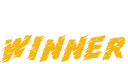
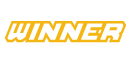
Design Tweak 2.0
Revamped all design aspects

diff --git a/js/pong.js b/js/pong.js
@@ -26,9 +26,10 @@ Pong =
 
     Assets: /**/
     [
-        "img/press1.png",
-        "img/press2.png",
-        "img/winner.png"
+        "img/leftMenu.png",
+        "img/rightMenu.png",
+        "img/p1win.png",
+        "img/p2win.png"
     ],
 
     Levels:
@@ -62,7 +63,7 @@ Pong =
             this.width = runner.width;
             this.height = runner.height;
             this.assets = assets;
-            this.isPlaying   = false; //
+            this.isPlaying = false; //
             this.score = [0, 0]; //
             this.menu = Object.construct(Pong.Menu, this);
             this.court = Object.construct(Pong.Court, this);
@@ -113,6 +114,7 @@ Pong =
     {
         this.score[player] += 1;
         this.sfx.goal();
+        
         if (this.score[player] >= this.cfg.winpoint)
         {
             this.menu.declareWinner(player);
@@ -157,9 +159,11 @@ Pong =
 
     draw: function(canvas) /**/
     {
-        this.court.draw(canvas, this.score[0], this.score[1]);
+        this.court.draw(canvas, this.score[0], this.score[1], this.isPlaying);
+
         this.leftPaddle.draw(canvas);
         this.rightPaddle.draw(canvas);
+        
         this.isPlaying ? this.ball.draw(canvas) : this.menu.draw(canvas);
         if (this.cfg.legend)
             this.drawLegend(canvas);
@@ -216,13 +220,14 @@ Pong =
     {
         initialize: function(pong) 
         {
-            var leftMenu = pong.assets["img/press1.png"];
-            var rightMenu = pong.assets["img/press2.png"];
-            var winText = pong.assets["img/winner.png"];
+            var leftMenu = pong.assets["img/leftMenu.png"];
+            var rightMenu = pong.assets["img/rightMenu.png"];
+            var leftWinner = pong.assets["img/p1win.png"];
+            var rightWinner = pong.assets["img/p2win.png"];
             this.leftMenu = { assets: leftMenu, x: 40, y: pong.cfg.wallWidth + 10};
             this.rightMenu = { assets: rightMenu, x: (pong.width - rightMenu.width - 40), y: pong.cfg.wallWidth + 10 };
-            this.leftWin = { assets: winText, x: (pong.width/4) - winText.width/2, y: pong.height/2 - winText.height/2 };
-            this.rightWin = { assets: winText, x: (3*pong.width/4) - winText.width/2, y: pong.height/2 - winText.height/2 };
+            this.leftWin = { assets: leftWinner, x: (pong.width/4) - leftWinner.width/2, y: pong.height/2 - leftWinner.height/2 };
+            this.rightWin = { assets: rightWinner, x: (3*pong.width/4) - rightWinner.width/2, y: pong.height/2 - rightWinner.height/2 };
         },
 
         declareWinner: function(pNum) { this.winner = pNum; },
@@ -288,7 +293,9 @@ Pong =
             this.courtWalls = [];
             this.courtWalls.push({x: 0, y: 0, width: x, height: th}) // Draw top walls
             this.courtWalls.push({x: 0, y: y-th, width: x, height: th}) // Draw bottom walls
-            this.courtWalls.push({x: (x/2) - (th/2), y: 0, width: th, height: y}); // Draw middle line
+            this.courtWalls.push({x: (x/2) - 3, y: 0, width: 6, height: y}); // Draw middle line
+            this.courtWalls.push({x: 0, y: 0, width: 3, height: y}); // Draw left line
+            this.courtWalls.push({x: x-3, y: 0, width: 3, height: y}); // Draw right line
             
             // Score panel properties
             var scoreX = 3*th;
@@ -335,16 +342,23 @@ Pong =
 				canvas.fillRect(x, y+h-dh, w, dh);
         },
 
-        draw: function(canvas, p1score, p2score)
+        draw: function(canvas, p1score, p2score, playing)
         {
-            canvas.fillStyle = Pong.Colors.courtWalls;
+            if (!playing)
+                canvas.fillStyle = 'red';
+            else
+                canvas.fillStyle = 'lime';
 
-            for (var i = 0; i < this.courtWalls.length; i++)
+            for (var i = 3; i < 5; i++)
+                canvas.fillRect(this.courtWalls[i].x, this.courtWalls[i].y, this.courtWalls[i].width, this.courtWalls[i].height);
+            
+            canvas.fillStyle = Pong.Colors.courtWalls;
+            for (var i = 0; i < 3; i++)
                 canvas.fillRect(this.courtWalls[i].x, this.courtWalls[i].y, this.courtWalls[i].width, this.courtWalls[i].height);
             
             this.sevenSegment(canvas, p1score, this.leftScore.x, this.leftScore.y, this.leftScore.width, this.leftScore.height);
             this.sevenSegment(canvas, p2score, this.rightScore.x, this.rightScore.y, this.rightScore.width, this.rightScore.height);
-        }
+        },
     },
 
     //Game Paddle - To hit the ball in the Pong game
@@ -357,7 +371,7 @@ Pong =
             this.minY   = pong.cfg.wallWidth;
             this.maxY   = pong.height - pong.cfg.wallWidth - this.height;
             this.speed  = (this.maxY - this.minY) / pong.cfg.paddleSpeed;
-            this.setpos(rhs ? pong.width - this.width - 10 : 10, this.minY + (this.maxY - this.minY)/2);
+            this.setpos(rhs ? pong.width - this.width - 20 : 20, this.minY + (this.maxY - this.minY)/2);
             this.setdir(0);
         },
 

diff --git a/index.html b/index.html
@@ -79,7 +79,7 @@
 
         </div>
 
-        <canvas id="game" style="background-color: #0047b3; opacity: 0.95;">
+        <canvas id="game" style="background-color: #002d71; opacity: 0.95;">
             <div id="unsupported">
                 Sorry, your browser does not support the &lt;canvas&gt; element which is erquired by this game.
             </div>
